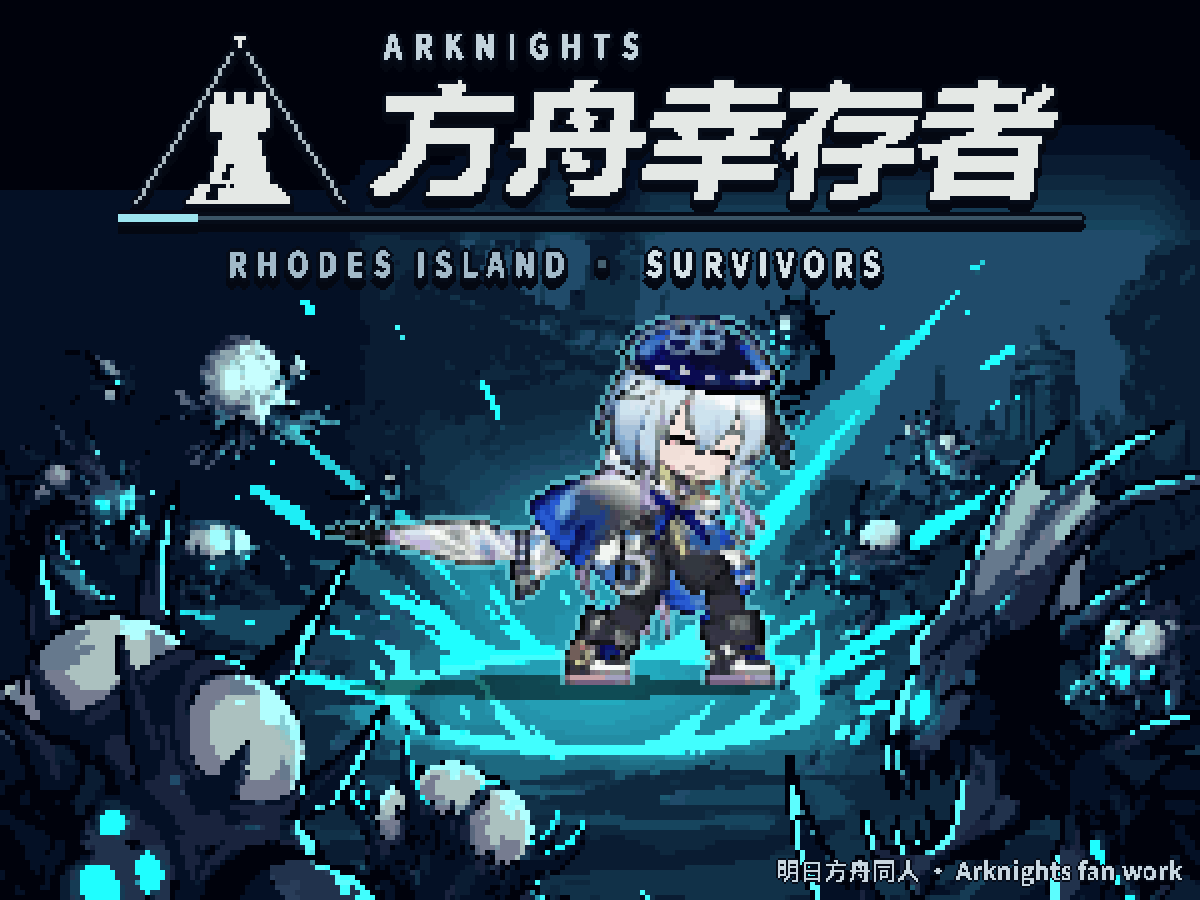
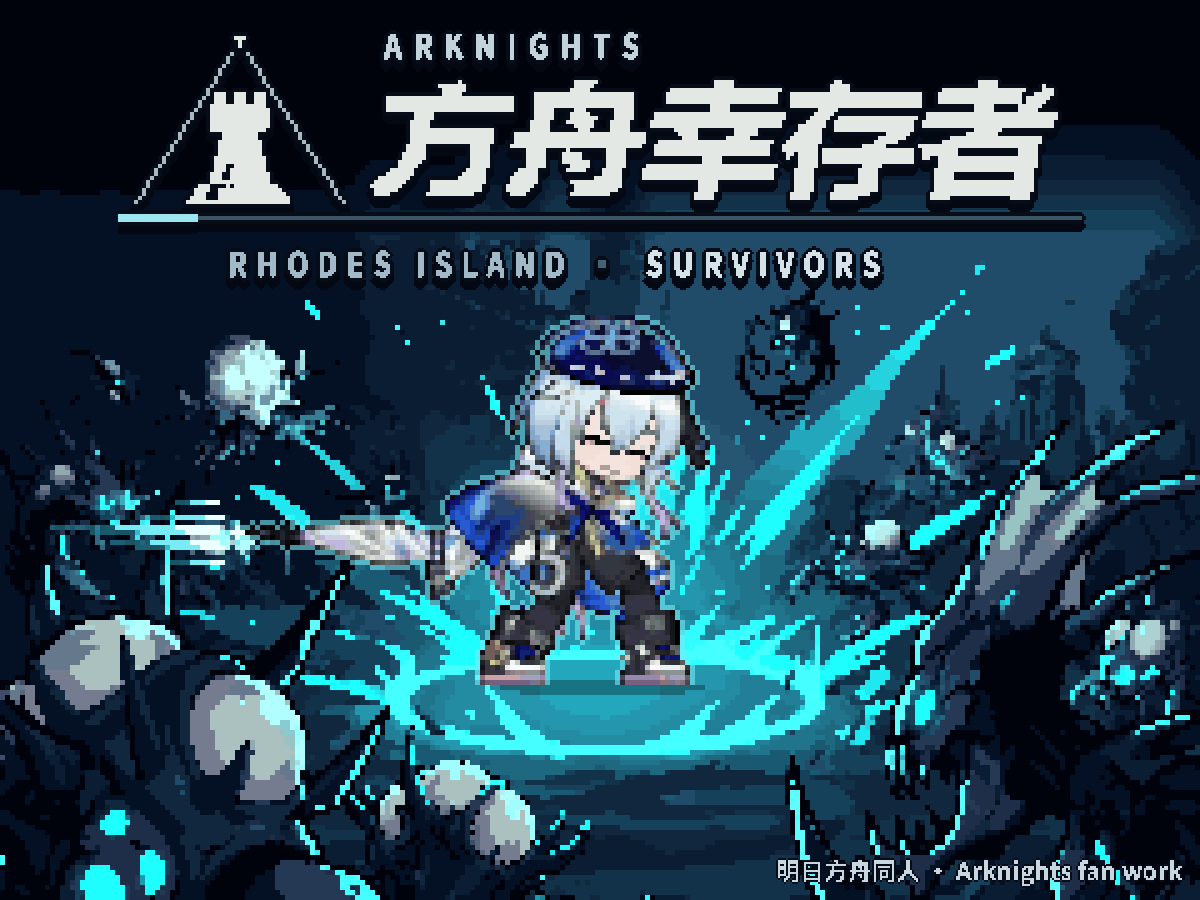
封面 H_t1：人物居中（头部对中线、裁切跟光圈）、脚下暗影改浅、伞尖加像素冲刺线（用户 11-07「A 的基础上迭代、人物居中」）

diff --git a/art/promo/itch/cover_g/build_cover_h.py b/art/promo/itch/cover_g/build_cover_h.py
@@ -40,7 +40,7 @@ def sprite(key):
 def bg_pixels(W, H, cell):
     raw = K.fill_band(Image.open(BG).convert("RGB"))
     gw, gh = W // cell, H // cell
-    x, y, cw, ch = X.crop_box(raw, gw, gh, 0.5, 0.5)
+    x, y, cw, ch = X.crop_box(raw, gw, gh, FLOOR[0], 0.5)   # 11-07：裁切以青光空地为中心，人物居中后仍踩在光圈中央
     c = raw.crop((x, y, x + cw, y + ch))
     # 怪潮发闷：中间调对比 ×1.25（以 0.3 为中点），让深色海嗣剪影读得出
     ca = np.asarray(c, np.float32) / 255
@@ -64,22 +64,58 @@ def compose_grid(grid, spr, n_shift=0):
     gh, gw = g.shape[:2]
     a = np.asarray(spr)
     sh, sw = a.shape[:2]
-    fx, fy = int(gw * FLOOR[0]), int(gh * FLOOR[1]) + n_shift
-    x0, y0 = fx - sw // 2, fy - sh
     m = a[..., 3] > 127
+    # 11-07 用户「人物居中一点」：以头部（精灵最上面 30% 的不透明像素）水平中心对准画面中线，伞伸出去多长都不影响
+    top = m[: max(1, int(sh * 0.3))]
+    hx = int(np.nonzero(top.any(0))[0].mean())
+    fx, fy = gw // 2, int(gh * FLOOR[1]) + n_shift
+    x0, y0 = fx - hx, fy - sh
     # 描边光：alpha 外扩 1 格的一圈，按 60% 混青色
     p = np.pad(m, 1)
     ring = (p[:-2, 1:-1] | p[2:, 1:-1] | p[1:-1, :-2] | p[1:-1, 2:]) & ~m
     # 脚下暗影：一条 2 格高的椭圆
     yy, xx = np.mgrid[0:gh, 0:gw]
-    shadow = ((xx - fx) / (sw * 0.45)) ** 2 + ((yy - fy) / 2.2) ** 2 < 1
-    g[shadow] = (g[shadow] * 0.45).astype(np.uint8)
+    shadow = ((xx - fx) / (sw * 0.22)) ** 2 + ((yy - fy) / 1.6) ** 2 < 1
+    g[shadow] = (g[shadow] * 0.7).astype(np.uint8)   # 11-07：原来的硬黑条太突兀，改浅、窄
     reg = g[y0:y0 + sh, x0:x0 + sw]
     rr = ring[:reg.shape[0], :reg.shape[1]]
     reg[rr] = (reg[rr] * 0.4 + CYAN * 0.6).astype(np.uint8)
     mm = m[:reg.shape[0], :reg.shape[1]]
     reg[mm] = a[..., :3][:reg.shape[0], :reg.shape[1]][mm]
+    if THRUST:
+        thrust_lines(g, m, x0, y0)
     return g
+
+
+THRUST = True
+
+
+def thrust_lines(g, m, x0, y0):
+    """刺击方向（向左）的像素冲刺线：伞尖前方几道青色横线（亮芯 + 暗青尾），伞尖一个十字亮点"""
+    gh, gw = g.shape[:2]
+    cols = np.nonzero(m.any(0))[0]
+    tip_x = cols[0]
+    rows = np.nonzero(m[:, tip_x])[0]
+    ty, tx = y0 + int(rows.mean()), x0 + tip_x
+    core, mid, tail = np.array([235, 255, 255]), np.array([120, 235, 245]), np.array([40, 140, 160])
+    rng = np.random.default_rng(7)
+    for dy, ln in ((0, 26), (-3, 16), (3, 18), (-6, 9), (6, 11), (-1, 34), (2, 22)):
+        y = ty + dy
+        if not 0 <= y < gh:
+            continue
+        start = tx - 2 - int(rng.integers(0, 4))
+        for k in range(ln):
+            x = start - k
+            if not 0 <= x < gw:
+                break
+            t = k / ln
+            c = core if t < 0.25 else (mid if t < 0.6 else tail)
+            al = 1.0 if t < 0.6 else 0.6
+            g[y, x] = (g[y, x] * (1 - al) + c * al).astype(np.uint8)
+    for dx, dy in ((0, 0), (1, 0), (-1, 0), (0, 1), (0, -1), (-2, 0), (0, -2), (0, 2)):
+        x, y = tx - 1 + dx, ty + dy
+        if 0 <= x < gw and 0 <= y < gh:
+            g[y, x] = core if abs(dx) + abs(dy) <= 1 else mid
 
 
 def build(key, kind):
